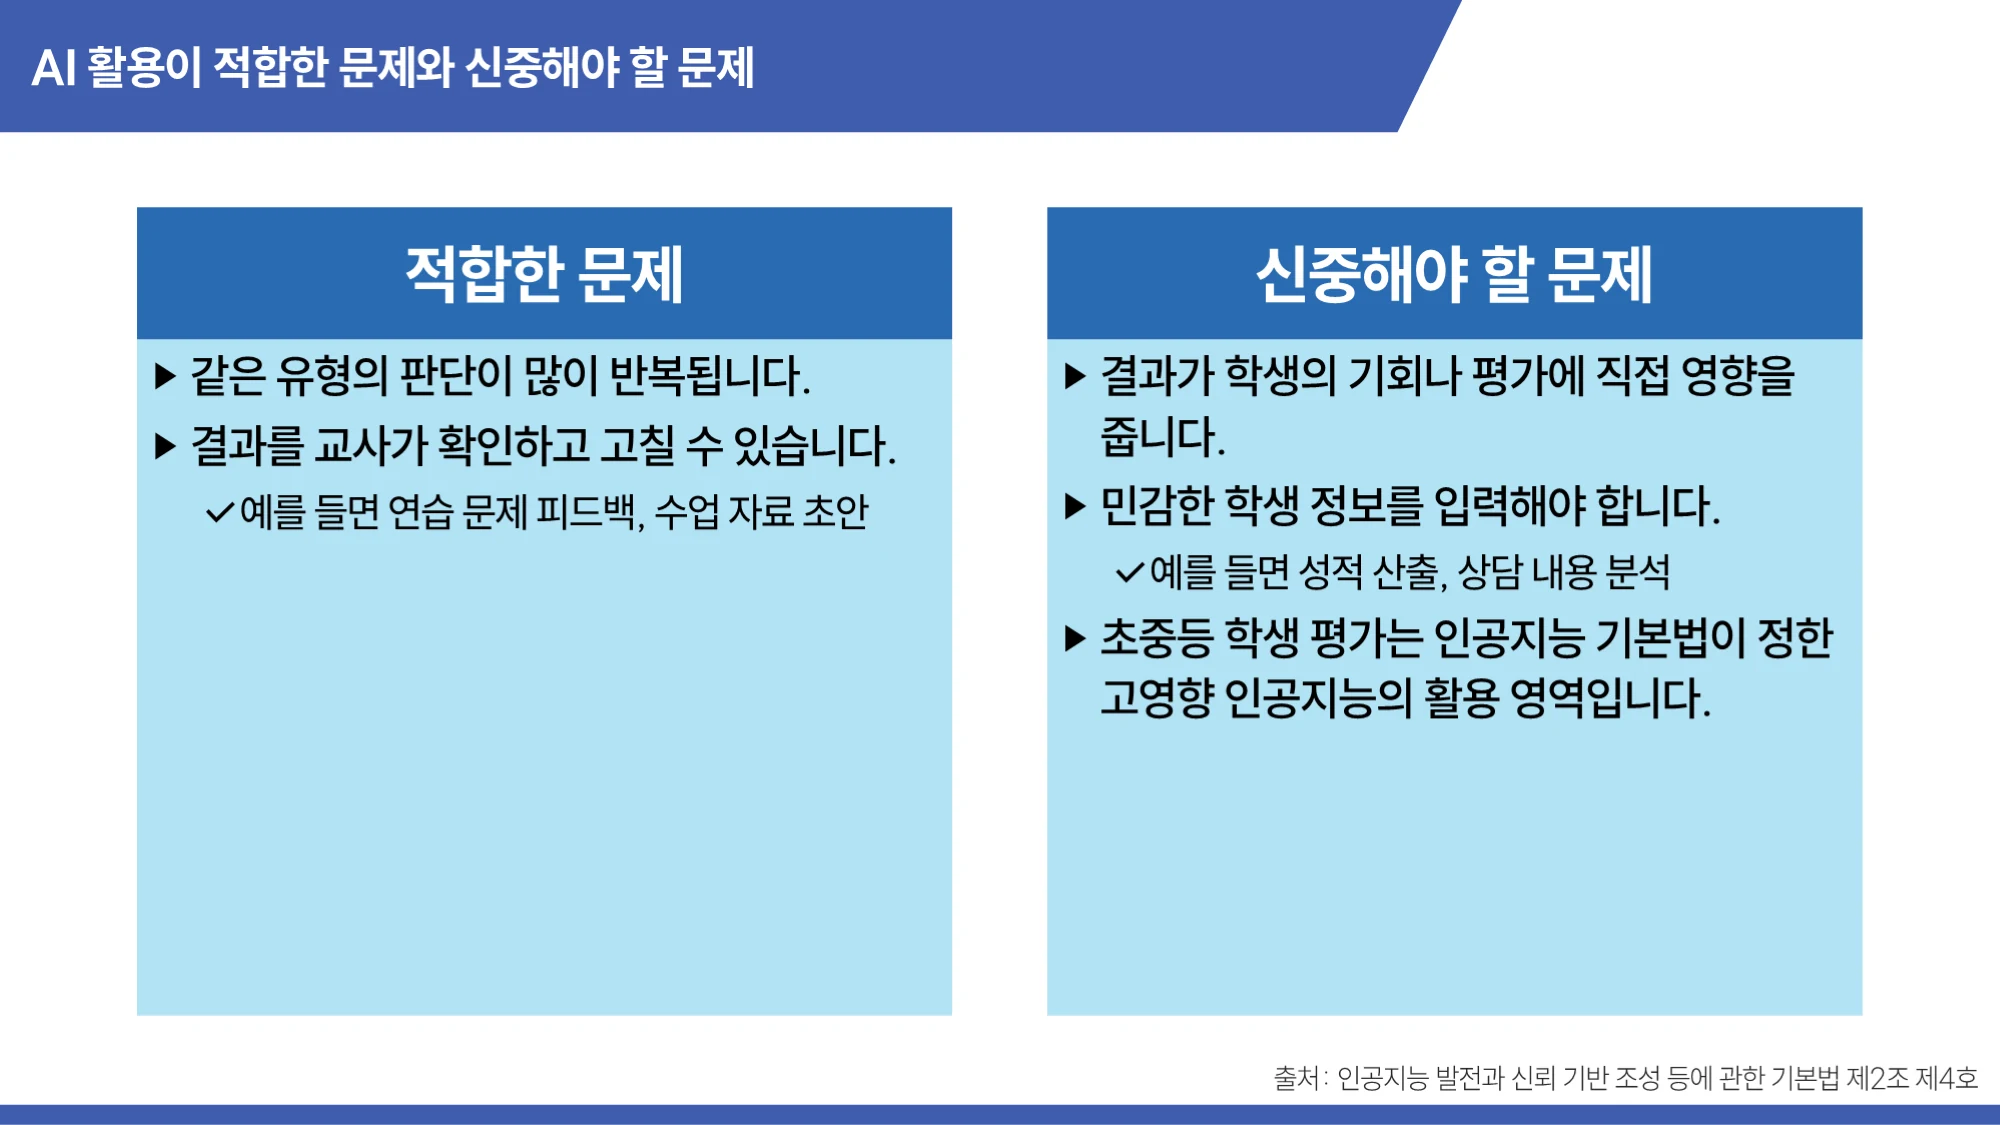
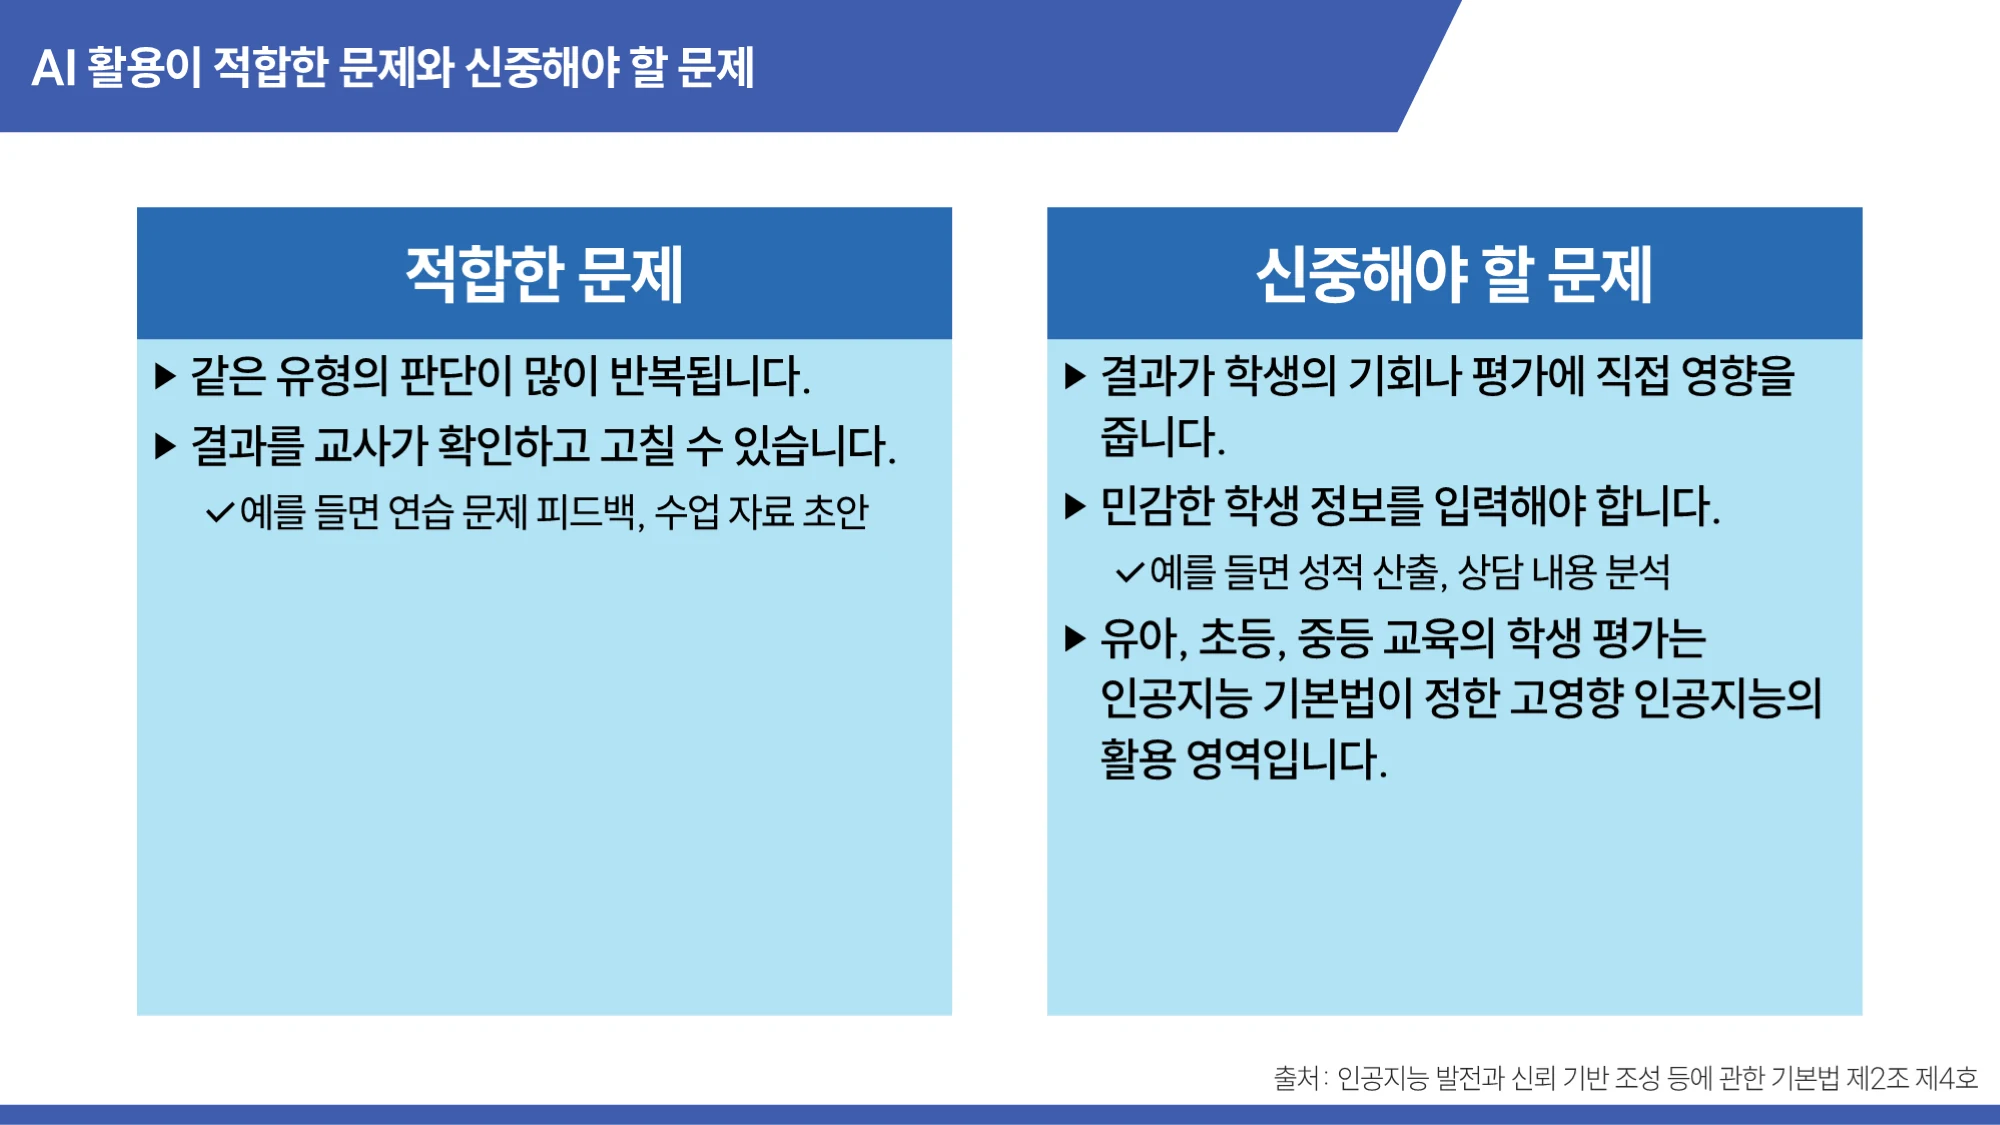
Unify terms in the microdegree week 7 afternoon deck
Activity instructions say 결과물 instead of 산출물, the TPACK slides and
activity follow the figure's 교수 and 테크놀로지, slide 14 names early
childhood education as the Act does, and the backward design stage reads
바라는 결과. Two instructions lose the 것입니다 ending and three activity
strings lose a comma after a connective.

Changed region(s): [[0.527, 0.5289, 0.93, 0.7156]]

diff --git a/lectures/microdegree1/7-2/index.html b/lectures/microdegree1/7-2/index.html
@@ -12,11 +12,11 @@
                             <path d="M21 12.79A9 9 0 1 1 11.21 3 7 7 0 0 0 21 12.79z" stroke="currentColor" stroke-width="2" stroke-linecap="round" stroke-linejoin="round" />
                         </svg>
                     </button><button id="mobileMenuToggle" class="mobile-menu-toggle" aria-label="메뉴 열기" aria-expanded="false">☰</button></div></div></header>
-<main class="ce-viewer md-viewer" data-chapter="7-2" data-course="microdegree1" data-course-title="마이크로디그리 과정1" data-version="20261120a" id="main-content" tabindex="-1"><div class="ce-heading"><div><a href="/lectures/">강의자료</a> <span aria-hidden="true">›</span> <a href="/lectures/microdegree1/">마이크로디그리 과정1</a><h1>7주차 오후 인공지능 활용 교육 프로젝트 설계</h1></div><a href="/lectures/microdegree1/">전체 강의 보기</a></div>
+<main class="ce-viewer md-viewer" data-chapter="7-2" data-course="microdegree1" data-course-title="마이크로디그리 과정1" data-version="20261120b" id="main-content" tabindex="-1"><div class="ce-heading"><div><a href="/lectures/">강의자료</a> <span aria-hidden="true">›</span> <a href="/lectures/microdegree1/">마이크로디그리 과정1</a><h1>7주차 오후 인공지능 활용 교육 프로젝트 설계</h1></div><a href="/lectures/microdegree1/">전체 강의 보기</a></div>
 <svg width="0" height="0" style="position:absolute" aria-hidden="true"><defs><symbol id="ce-icon-chevron-left" viewBox="0 0 24 24"><path d="m15 18-6-6 6-6" /></symbol><symbol id="ce-icon-chevron-right" viewBox="0 0 24 24"><path d="m9 18 6-6-6-6" /></symbol><symbol id="ce-icon-list-filter" viewBox="0 0 24 24"><path d="M2 5h20" /><path d="M6 12h12" /><path d="M9 19h6" /></symbol><symbol id="ce-icon-printer" viewBox="0 0 24 24"><path d="M6 18H4a2 2 0 0 1-2-2v-5a2 2 0 0 1 2-2h16a2 2 0 0 1 2 2v5a2 2 0 0 1-2 2h-2" /><path d="M6 9V3a1 1 0 0 1 1-1h10a1 1 0 0 1 1 1v6" /><rect x="6" y="14" width="12" height="8" rx="1" /></symbol><symbol id="ce-icon-maximize" viewBox="0 0 24 24"><path d="M8 3H5a2 2 0 0 0-2 2v3" /><path d="M21 8V5a2 2 0 0 0-2-2h-3" /><path d="M3 16v3a2 2 0 0 0 2 2h3" /><path d="M16 21h3a2 2 0 0 0 2-2v-3" /></symbol><symbol id="ce-icon-minimize" viewBox="0 0 24 24"><path d="M8 3v3a2 2 0 0 1-2 2H3" /><path d="M21 8h-3a2 2 0 0 1-2-2V3" /><path d="M3 16h3a2 2 0 0 1 2 2v3" /><path d="M16 21v-3a2 2 0 0 1 2-2h3" /></symbol><symbol id="ce-icon-zoom-in" viewBox="0 0 24 24"><circle cx="11" cy="11" r="8" /><line x1="21" x2="16.65" y1="21" y2="16.65" /><line x1="11" x2="11" y1="8" y2="14" /><line x1="8" x2="14" y1="11" y2="11" /></symbol><symbol id="ce-icon-zoom-out" viewBox="0 0 24 24"><circle cx="11" cy="11" r="8" /><line x1="21" x2="16.65" y1="21" y2="16.65" /><line x1="8" x2="14" y1="11" y2="11" /></symbol><symbol id="ce-icon-x" viewBox="0 0 24 24"><path d="M18 6 6 18" /><path d="m6 6 12 12" /></symbol><symbol id="ce-icon-link" viewBox="0 0 24 24"><path d="M10 13a5 5 0 0 0 7.54.54l3-3a5 5 0 0 0-7.07-7.07l-1.72 1.71" /><path d="M14 11a5 5 0 0 0-7.54-.54l-3 3a5 5 0 0 0 7.07 7.07l1.71-1.71" /></symbol><symbol id="ce-icon-hash" viewBox="0 0 24 24"><line x1="4" x2="20" y1="9" y2="9" /><line x1="4" x2="20" y1="15" y2="15" /><line x1="10" x2="8" y1="3" y2="21" /><line x1="16" x2="14" y1="3" y2="21" /></symbol><symbol id="ce-icon-play" viewBox="0 0 24 24"><path d="M5 5a2 2 0 0 1 3.008-1.728l11.997 6.998a2 2 0 0 1 .003 3.458l-12 7A2 2 0 0 1 5 19z" /></symbol></defs></svg><div class="ce-stage" id="ce-stage"><div class="ce-viewport"><div class="ce-canvas"><img class="ce-slide-image" id="ce-image" width="2000" height="1125" alt="강의 슬라이드" aria-describedby="ce-slide-text" src="/images/lectures/microdegree1/7-2/001.webp"><div id="ce-media"></div><section class="ce-lab md-lab" id="ce-lab" hidden aria-label="체험 슬라이드"></section></div></div><div class="ce-toolbar" role="toolbar" aria-label="슬라이드 도구"><button id="ce-prev" type="button" class="ce-glass ce-prev" aria-label="이전 슬라이드" data-tip="이전 슬라이드" ><svg class="ce-icon" viewBox="0 0 24 24" aria-hidden="true" focusable="false"><use href="#ce-icon-chevron-left"></use></svg></button><button id="ce-next" type="button" class="ce-glass ce-next" aria-label="다음 슬라이드" data-tip="다음 슬라이드" ><svg class="ce-icon" viewBox="0 0 24 24" aria-hidden="true" focusable="false"><use href="#ce-icon-chevron-right"></use></svg></button><button id="ce-open-toc" type="button" class="ce-glass " aria-label="목차 검색" data-tip="목차 검색" ><svg class="ce-icon" viewBox="0 0 24 24" aria-hidden="true" focusable="false"><use href="#ce-icon-list-filter"></use></svg></button><button id="ce-open-page" type="button" class="ce-glass " aria-label="페이지 이동" data-tip="페이지 이동" ><svg class="ce-icon" viewBox="0 0 24 24" aria-hidden="true" focusable="false"><use href="#ce-icon-hash"></use></svg></button><button id="ce-open-links" type="button" class="ce-glass " aria-label="관련 링크" data-tip="관련 링크" hidden><svg class="ce-icon" viewBox="0 0 24 24" aria-hidden="true" focusable="false"><use href="#ce-icon-link"></use></svg></button><button id="ce-zoom" type="button" class="ce-glass " aria-label="확대" data-tip="확대" aria-pressed="false"><svg class="ce-icon" viewBox="0 0 24 24" aria-hidden="true" focusable="false"><use href="#ce-icon-zoom-in"></use></svg></button><button id="ce-fullscreen" type="button" class="ce-glass " aria-label="전체 화면" data-tip="전체 화면" aria-keyshortcuts="f"><svg class="ce-icon" viewBox="0 0 24 24" aria-hidden="true" focusable="false"><use href="#ce-icon-maximize"></use></svg></button><button id="ce-print" type="button" class="ce-glass " aria-label="인쇄" data-tip="인쇄" ><svg class="ce-icon" viewBox="0 0 24 24" aria-hidden="true" focusable="false"><use href="#ce-icon-printer"></use></svg></button></div><span class="ce-loading" id="ce-loading">불러오는 중</span></div><p id="ce-status" class="sr-only" aria-live="polite"></p><p id="ce-slide-text" class="sr-only"></p><span id="ce-page-label" class="sr-only"></span><nav class="ce-after" aria-label="이전과 다음 강의"><a href="/lectures/microdegree1/7-1/">← 7주차 오전 공정성과 편향성 및 책임 있는 활용 Part 2</a><a href="/lectures/microdegree1/8-1/">8주차 오전 프로젝트 발표 및 종합 평가, 수료식 →</a></nav>
 <dialog class="ce-dialog" id="ce-dialog"><header><h2>목차 검색</h2><button id="ce-close-toc" type="button" class="ce-glass " aria-label="닫기" data-tip="닫기" data-close><svg class="ce-icon" viewBox="0 0 24 24" aria-hidden="true" focusable="false"><use href="#ce-icon-x"></use></svg></button></header><label for="ce-search">제목 또는 본문으로 찾기</label><input id="ce-search" type="search" placeholder="검색어를 입력하세요"><div class="ce-toc" id="ce-toc"></div></dialog>
 <dialog class="ce-dialog ce-small-dialog" id="ce-page-dialog"><header><h2>페이지 이동</h2><button id="ce-close-page" type="button" class="ce-glass " aria-label="닫기" data-tip="닫기" data-close><svg class="ce-icon" viewBox="0 0 24 24" aria-hidden="true" focusable="false"><use href="#ce-icon-x"></use></svg></button></header><form id="ce-go-page"><label for="ce-page">전체 <span id="ce-total">57</span>쪽</label><input id="ce-page" type="number" min="1" max="57" value="1" required><button class="ce-submit" type="submit">이동</button></form></dialog>
-<dialog class="ce-dialog ce-small-dialog" id="ce-links-dialog"><header><h2>관련 링크</h2><button id="ce-close-links" type="button" class="ce-glass " aria-label="닫기" data-tip="닫기" data-close><svg class="ce-icon" viewBox="0 0 24 24" aria-hidden="true" focusable="false"><use href="#ce-icon-x"></use></svg></button></header><div class="ce-links" id="ce-links"></div></dialog></main><noscript><p>슬라이드 이동과 체험에는 자바스크립트가 필요합니다.</p></noscript><script src="/js/microdegree1-labs.js?v=20261013a"></script><script src="/js/microdegree1-labs-7-2.js?v=20261120a"></script><script src="/js/lecture-image-zoom.js?v=20261022a"></script>
+<dialog class="ce-dialog ce-small-dialog" id="ce-links-dialog"><header><h2>관련 링크</h2><button id="ce-close-links" type="button" class="ce-glass " aria-label="닫기" data-tip="닫기" data-close><svg class="ce-icon" viewBox="0 0 24 24" aria-hidden="true" focusable="false"><use href="#ce-icon-x"></use></svg></button></header><div class="ce-links" id="ce-links"></div></dialog></main><noscript><p>슬라이드 이동과 체험에는 자바스크립트가 필요합니다.</p></noscript><script src="/js/microdegree1-labs.js?v=20261013a"></script><script src="/js/microdegree1-labs-7-2.js?v=20261120b"></script><script src="/js/lecture-image-zoom.js?v=20261022a"></script>
 <script src="/js/local-progress.js" defer></script>
 <script src="/js/site-learning.js" defer></script>
 <script src="/js/lecture-tools.js?v=20261107ui" defer></script>

diff --git a/js/microdegree1-labs-7-2.js b/js/microdegree1-labs-7-2.js
@@ -123,10 +123,10 @@
   {left:'선정 기준과 심의',right:'학생 정보를 다루는 도구라서 학교운영위원회 심의를 거쳤는지 확인함'}]});
 
  // The TPACK picture as a board: three circles, their overlaps, and the context ring around them.
- const ZONES={TK:{x:210,y:82,r:30,sub:'기술',q:'도구의 작동 원리, 한계, 오류 대처를 알고 있는가'},PK:{x:108,y:284,r:30,sub:'교수법',q:'학습자 수준에 맞는 수업 방법과 평가를 골랐는가'},CK:{x:312,y:284,r:30,sub:'내용',q:'가르칠 개념과 흔한 오개념을 정확히 파악했는가'},
+ const ZONES={TK:{x:210,y:82,r:30,sub:'테크놀로지',q:'도구의 작동 원리, 한계, 오류 대처를 알고 있는가'},PK:{x:108,y:284,r:30,sub:'교수',q:'학습자 수준에 맞는 수업 방법과 평가를 골랐는가'},CK:{x:312,y:284,r:30,sub:'내용',q:'가르칠 개념과 흔한 오개념을 정확히 파악했는가'},
   TPK:{x:157,y:180,r:24,q:'도구가 수업 방법과 학생 참여를 어떻게 바꾸는가'},TCK:{x:263,y:180,r:24,q:'도구가 내용을 보여 주는 방식이 개념을 왜곡하지 않는가'},PCK:{x:210,y:292,r:24},
   TPACK:{x:210,y:218,r:29,q:'이 내용, 이 학생, 이 도구에서 세 지식이 맞물리는가'},XK:{x:210,y:378,sub:'맥락',q:'학교의 기기, 시간, 규정 안에서 실행할 수 있는가'}};
- const MEMOS=[['XK','학교 태블릿 수와 두 차시라는 시간, 계정 규정 안에서 할 수 있는지 확인했다.'],['CK','AI가 데이터로 학습해 예측한다는 개념과, AI가 스스로 안다고 여기는 오개념을 정리했다.'],
+ const MEMOS=[['XK','학교 태블릿 수와 두 차시라는 시간, 계정 규정 안에서 할 수 있는지 확인했다.'],['CK','AI가 데이터로 학습해 예측한다는 개념과 AI가 스스로 안다고 여기는 오개념을 정리했다.'],
   ['TPK','도구를 쓰면 설명을 듣던 수업이 학생이 직접 자료를 바꾸어 보는 수업으로 달라진다.'],['TK','이미지 분류 도구가 어떻게 학습하는지, 예측이 틀리면 어떻게 대처할지 알고 있다.'],
   ['PK','5학년 수준에 맞추어 예상을 먼저 적고 비교하는 활동과 채점 기준표를 골랐다.'],['TCK','사진 몇 장으로 만든 모델이 학습이라는 개념을 잘못 보여 주지 않는지 살폈다.'],
   ['TPACK','이 개념을 이 학생들에게 이 도구로 가르치는 것이 서로 맞는지 한 문장으로 설명했다.']];
@@ -197,7 +197,7 @@
   {name:'원리 이해',levels:['원리로 오류 상황을 예상하고 대비함','원리를 설명하나 수업과 연결이 약함','원리와 관련된 설명이 없음'],answer:1,
    text:'생성형 AI가 학습한 자료를 바탕으로 문장을 만들어 낸다는 점을 수업 첫머리에 설명합니다.',why:'원리 설명은 있지만 그 원리로 어떤 오류가 생길지 예상하거나 대비하는 내용이 없습니다.'},
   {name:'결과 검증',levels:['확인 주체, 시점, 기준이 구체적임','확인 계획은 있으나 기준이 모호함','결과 확인 절차가 없음'],answer:0,
-   text:'학생이 AI가 알려 준 출처를 모둠 활동 시간에 직접 찾아보고, 찾지 못한 출처는 보고서에 쓰지 않습니다.',why:'학생이, 모둠 활동 시간에, 직접 찾을 수 있는 출처인지를 기준으로 확인합니다.'},
+   text:'학생이 AI가 알려 준 출처를 모둠 활동 시간에 직접 찾아보고 찾지 못한 출처는 보고서에 쓰지 않습니다.',why:'학생이, 모둠 활동 시간에, 직접 찾을 수 있는 출처인지를 기준으로 확인합니다.'},
   {name:'윤리와 개인정보',levels:['입력 제한과 공개 방법까지 정함','일반적인 주의만 적음','점검 내용이 없음'],answer:1,
    text:'개인정보 보호와 저작권에 유의하여 지도합니다.',why:'입력하지 않을 정보와 AI 사용을 밝히는 방법은 정하지 않고 일반적인 주의만 적었습니다.'},
   {name:'실행 가능성',levels:['조건 확인과 대체 방법을 갖춤','조건은 확인했으나 대체 방법이 없음','이용 조건을 확인하지 않음'],answer:2,
@@ -217,7 +217,7 @@
     check.disabled=st.checked;
     const n=RUBRIC.filter((r,i)=>st.rate[i]===r.answer).length,rated=st.rate.filter(v=>v!==null).length;
     if(!st.checked)ui.say(rated?`여섯 기준 중 ${rated}개를 판단했습니다.`:'기준마다 문장에 맞는 수준의 설명을 하나씩 누르세요.');
-    else if(st.open===null)ui.say(`여섯 기준 중 ${n}개가 함께 확인할 판단과 같습니다. 초록 칸이 함께 확인할 수준이고, 행을 누르면 근거가 나옵니다.`,n===RUBRIC.length?'good':'');
+    else if(st.open===null)ui.say(`여섯 기준 중 ${n}개가 함께 확인할 판단과 같습니다. 초록 칸이 함께 확인할 수준이고 행을 누르면 근거가 나옵니다.`,n===RUBRIC.length?'good':'');
     else{const r=RUBRIC[st.open];ui.say(`${r.name}, ${LEVELS[r.answer]}: ${r.why}`,st.rate[st.open]===r.answer?'good':'bad')}
    }
    ui.body.addEventListener('click',e=>{const tr=e.target.closest('tbody tr');if(!tr)return;const i=Number(tr.dataset.i),b=e.target.closest('.s72-level');

diff --git a/scripts/sync_microdegree1.py b/scripts/sync_microdegree1.py
@@ -28,7 +28,7 @@ PLAYER_VERSION = '20261102video'  # computer-education2.js, the shared slide pla
 VIEWER_VERSION = '20261022a'  # shared viewer and picture-zoom assets
 # Sessions rebuilt from a revised deck get a new data and activity version, so no browser pairs old data with new images.
 SESSION_VERSIONS = {key: '20261113b' for key in ('1-1', '1-2', '2-1', '2-2', '3-1', '3-2', '4-1', '4-2', '5-1', '5-2', '6-1', '6-2', '7-1', '7-2', '8-1')}
-SESSION_VERSIONS['7-2'] = '20261120a'  # the 2027 curriculum year, the assessment guidance slide, two table rows
+SESSION_VERSIONS['7-2'] = '20261120b'  # the 2027 curriculum year, the assessment guidance slide, two table rows
 SESSION_VERSIONS['6-2'] = '20261114b'  # the review film after the title slide; two news videos and two more practices
 
 # id, week, half, title, card summary, source slides left out because they only introduce instructors.

diff --git a/data/lectures/microdegree1/README.md b/data/lectures/microdegree1/README.md
@@ -126,3 +126,5 @@ python scripts/sync_microdegree1_linux.py --source <PPTX 파일> --session 6-2 -
 - 체험은 기준 슬라이드 번호를 옮겼다(28, 33, 40, 44쪽이 29, 34, 41, 45쪽). `conditionMatch`에 `선정 기준과 심의` 짝을 더했고 `rubricApply`의 AI 필요성 우수 수준 문장을 슬라이드에 맞췄다.
 - Windows에서 `sync_microdegree1.py --only 7-2`와 `sync_slide_layers.py --only 7-2`로 48쪽을 모두 PowerPoint로 내보냈다. 문구가 그대로인 쪽의 이미지는 이전과 같은 파일로 나왔다. 글자 줄 619개와 그림 7개가 들어갔다.
 - 검증: `tests/lecture-ui.browser.cjs`의 7-2 점검(57쪽, 체험 9개)과 `scripts/check_site.py`를 통과했다. 짝이 여섯 개가 된 `conditionMatch`가 1366px 너비에서 16:9 틀 안에 들어가는 것을 Edge에서 확인했다. Teachable Machine 누리집은 자동 도구로 내용을 읽지 못해 화면과 안내 문구가 그대로인지 확인하지 못했다. 영상의 공개 상태만 확인했고 재생은 확인하지 않았다.
+
+- 같은 날 용어를 한 번 더 고쳤다. 문체 프로파일 검사기(`check_style_profile.py`)로 슬라이드와 체험 문구를 훑은 결과다. 활동 안내의 `산출물`을 `결과물`로 바꾸었고(원본 3, 15, 24, 46, 47쪽) 평가 항목 이름인 42쪽 `과제 및 산출물`은 두었다. TPACK 용어는 그림에 맞추어 `교수`, `테크놀로지`로 통일했다(33, 34쪽과 `tpackPlace`). 14쪽은 법 조문대로 `유아, 초등, 중등 교육의 학생 평가`로, 23쪽 백워드 설계 1단계는 `바라는 결과`로 고쳤다. 15, 46쪽의 `목적은 ~하는 것입니다`를 풀어 썼고 체험 문구의 연결어미 뒤 쉼표 세 곳을 지웠다. 이 직전 교안은 `_이전본`의 `_수정전_261120_2`다. 쪽수는 그대로이고 7-2 점검(57쪽, 체험 9개)을 다시 통과했다.
